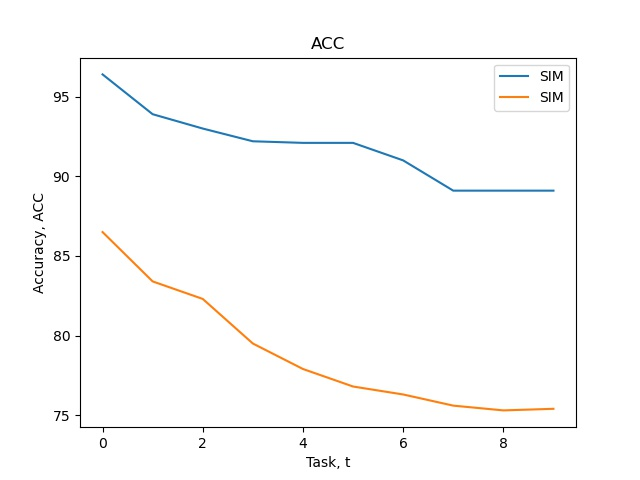
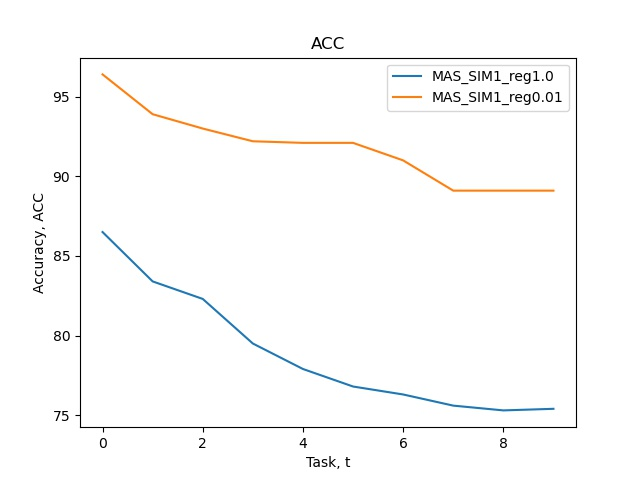
j

diff --git a/ISG/utils/result_utils.py b/ISG/utils/result_utils.py
@@ -59,14 +59,29 @@ class observer():
 		if not os.path.isdir(save_path):
 			os.makedirs(save_path)
 
-		np.savetxt(save_path+self.args.method+"_SIM"+str(self.args.apply_SIM)+"_reg"+str(self.args.reglambda)+"_ACC.csv", np.asarray(self.ACC), delimiter=",")
-		# np.savetxt(save_path+self.args.method+"_SIM"+str(self.args.apply_SIM)+"_reg"+str(self.args.reglambda)+"_LCA.csv", np.asarray(self.LCA), delimiter=",")
-		np.savetxt(save_path+self.args.method+"_SIM"+str(self.args.apply_SIM)+"_reg"+str(self.args.reglambda)+"_FWT.csv", np.asarray(self.FWT), delimiter=",")
-		np.savetxt(save_path+self.args.method+"_SIM"+str(self.args.apply_SIM)+"_reg"+str(self.args.reglambda)+"_BWT.csv", np.asarray(self.BWT), delimiter=",")
-		np.savetxt(save_path+self.args.method+"_SIM"+str(self.args.apply_SIM)+"_reg"+str(self.args.reglambda)+"_SAT.csv", np.asarray(self.SAT), delimiter=",")
-		np.savetxt(save_path+self.args.method+"_SIM"+str(self.args.apply_SIM)+"_reg"+str(self.args.reglambda)+"_PTB.csv", np.asarray(self.PTB), delimiter=",")
-		np.savetxt(save_path+self.args.method+"_SIM"+str(self.args.apply_SIM)+"_reg"+str(self.args.reglambda)+"_IPK.csv", np.asarray(self.IPK), delimiter=",")
+		np.savetxt(save_path+self.args.dataset+"_"+self.args.method+"_SIM"+str(self.args.apply_SIM)+"_r"+str(self.args.rho)+"_rand"+str(self.args.random_drop)+"_reg"+str(self.args.reglambda)+"_a"+str(self.args.alpha)+"_x"+str(self.args.xi)+"_a"+str(self.args.alpha)+"_ACC.csv", np.asarray(self.ACC), delimiter=",")
+		np.savetxt(save_path+self.args.dataset+"_"+self.args.method+"_SIM"+str(self.args.apply_SIM)+"_r"+str(self.args.rho)+"_rand"+str(self.args.random_drop)+"_reg"+str(self.args.reglambda)+"_a"+str(self.args.alpha)+"_x"+str(self.args.xi)+"_a"+str(self.args.alpha)+"_LCA.csv", np.asarray(self.LCA), delimiter=",")
+		np.savetxt(save_path+self.args.dataset+"_"+self.args.method+"_SIM"+str(self.args.apply_SIM)+"_r"+str(self.args.rho)+"_rand"+str(self.args.random_drop)+"_reg"+str(self.args.reglambda)+"_a"+str(self.args.alpha)+"_x"+str(self.args.xi)+"_a"+str(self.args.alpha)+"_FWT.csv", np.asarray(self.FWT), delimiter=",")
+		np.savetxt(save_path+self.args.dataset+"_"+self.args.method+"_SIM"+str(self.args.apply_SIM)+"_r"+str(self.args.rho)+"_rand"+str(self.args.random_drop)+"_reg"+str(self.args.reglambda)+"_a"+str(self.args.alpha)+"_x"+str(self.args.xi)+"_a"+str(self.args.alpha)+"_BWT.csv", np.asarray(self.BWT), delimiter=",")
+		np.savetxt(save_path+self.args.dataset+"_"+self.args.method+"_SIM"+str(self.args.apply_SIM)+"_r"+str(self.args.rho)+"_rand"+str(self.args.random_drop)+"_reg"+str(self.args.reglambda)+"_a"+str(self.args.alpha)+"_x"+str(self.args.xi)+"_a"+str(self.args.alpha)+"_SAT.csv", np.asarray(self.SAT), delimiter=",")
+		np.savetxt(save_path+self.args.dataset+"_"+self.args.method+"_SIM"+str(self.args.apply_SIM)+"_r"+str(self.args.rho)+"_rand"+str(self.args.random_drop)+"_reg"+str(self.args.reglambda)+"_a"+str(self.args.alpha)+"_x"+str(self.args.xi)+"_a"+str(self.args.alpha)+"_PTB.csv", np.asarray(self.PTB), delimiter=",")
+		np.savetxt(save_path+self.args.dataset+"_"+self.args.method+"_SIM"+str(self.args.apply_SIM)+"_r"+str(self.args.rho)+"_rand"+str(self.args.random_drop)+"_reg"+str(self.args.reglambda)+"_a"+str(self.args.alpha)+"_x"+str(self.args.xi)+"_a"+str(self.args.alpha)+"_IPK.csv", np.asarray(self.IPK), delimiter=",")
 
+
+		# np.savetxt(save_path+self.args.method+"_SIM"+str(self.args.apply_SIM)+"_reg"+str(self.args.reglambda)+"_LCA.csv", np.asarray(self.LCA), delimiter=",")
+		# np.savetxt(save_path+self.args.method+"_SIM"+str(self.args.apply_SIM)+"_reg"+str(self.args.reglambda)+"_FWT.csv", np.asarray(self.FWT), delimiter=",")
+		# np.savetxt(save_path+self.args.method+"_SIM"+str(self.args.apply_SIM)+"_reg"+str(self.args.reglambda)+"_BWT.csv", np.asarray(self.BWT), delimiter=",")
+		# np.savetxt(save_path+self.args.method+"_SIM"+str(self.args.apply_SIM)+"_reg"+str(self.args.reglambda)+"_SAT.csv", np.asarray(self.SAT), delimiter=",")
+		# np.savetxt(save_path+self.args.method+"_SIM"+str(self.args.apply_SIM)+"_reg"+str(self.args.reglambda)+"_PTB.csv", np.asarray(self.PTB), delimiter=",")
+		# np.savetxt(save_path+self.args.method+"_SIM"+str(self.args.apply_SIM)+"_reg"+str(self.args.reglambda)+"_IPK.csv", np.asarray(self.IPK), delimiter=",")
+
+
+def legend_name(item):
+	# if "SIM1" in item:
+	# 	return "SIM"
+	# else:
+	# 	return item[:3]
+	return item[:-8]
 
 def plot_results():
 	result_path = "/home/sanghyun/Documents/CL/ISG/results/03-23-2021/"
@@ -77,10 +92,8 @@ def plot_results():
 	for item in arr:
 		if 'ACC' in item:
 			data = np.genfromtxt(result_path+item, delimiter=",")
-			if "SIM1" in item:
-				item_list.append("SIM")
-			else:
-				item_list.append(item[:3])
+
+			item_list.append(legend_name(item))
 			if len(data)!=10:
 				plt.plot(np.arange(10), data[0])
 			else:
@@ -97,10 +110,8 @@ def plot_results():
 	for item in arr:
 		if 'BWT' in item:
 			data = np.genfromtxt(result_path+item, delimiter=",")
-			if "SIM1" in item:
-				item_list.append("SIM")
-			else:
-				item_list.append(item[:3])
+			item_list.append(legend_name(item))
+
 			if len(data)!=10:
 				plt.plot(np.arange(10), data[0])
 			else:
@@ -117,10 +128,8 @@ def plot_results():
 	for item in arr:
 		if 'FWT' in item:
 			data = np.genfromtxt(result_path+item, delimiter=",")
-			if "SIM1" in item:
-				item_list.append("SIM")
-			else:
-				item_list.append(item[:3])
+			item_list.append(legend_name(item))
+
 			if len(data)!=10:
 				plt.plot(np.arange(10), data[0])
 			else:
@@ -137,10 +146,8 @@ def plot_results():
 	for item in arr:
 		if 'IPK' in item:
 			data = np.genfromtxt(result_path+item, delimiter=",")
-			if "SIM1" in item:
-				item_list.append("SIM")
-			else:
-				item_list.append(item[:3])
+			item_list.append(legend_name(item))
+
 			if len(data)!=10:
 				plt.plot(np.arange(10), data[0])
 			else:
@@ -157,10 +164,8 @@ def plot_results():
 	for item in arr:
 		if 'PTB' in item:
 			data = np.genfromtxt(result_path+item, delimiter=",")
-			if "SIM1" in item:
-				item_list.append("SIM")
-			else:
-				item_list.append(item[:3])
+			item_list.append(legend_name(item))
+
 			if len(data)!=10:
 				plt.plot(np.arange(10), data[0])
 			else:
@@ -177,10 +182,8 @@ def plot_results():
 	for item in arr:
 		if 'SAT' in item:
 			data = np.genfromtxt(result_path+item, delimiter=",")
-			if "SIM1" in item:
-				item_list.append("SIM")
-			else:
-				item_list.append(item[:3])
+			item_list.append(legend_name(item))
+
 			if len(data)!=10:
 				plt.plot(np.arange(10), data[0])
 			else:
